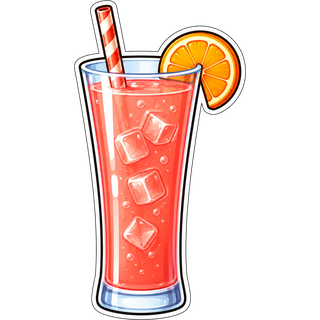
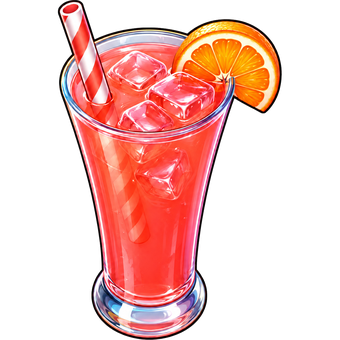
3D drink sprites: all 11 tiers re-rendered in elevated 3/4 volumetric style
Regenerated every drink as a glossy 3D object seen from the table camera's
angle, so they sit IN the scene with real depth instead of reading as flat
front-on cards. Billboard shear cut to a whisper (the sprites now carry
their own perspective), icon + iOS splash rebuilt from the 3D margarita.

diff --git a/src/render.js b/src/render.js
@@ -372,8 +372,9 @@ export class Renderer {
     const vis = 1.62 - 0.034 * (b.tier - 1);
     const wpx = b.r * 2 * p.s * vis * pop * (1 + bob);
     const hpx = view.project(b.x, b.y, b.z);
-    // billboard lean: drinks off-center shear subtly toward the camera axis
-    const shear = (this.view.cx - p.x) / this.view.w * 0.12;
+    // The 3D-rendered sprites already carry a fixed 3/4 perspective, so the old
+    // billboard shear would fight it — keep only a whisper of lean for life.
+    const shear = (this.view.cx - p.x) / this.view.w * 0.04;
 
     if (img) {
       const ih = wpx * (img.naturalHeight / img.naturalWidth);

diff --git a/sw.js b/sw.js
@@ -2,7 +2,7 @@
 // else (backdrops, sprites, audio) so the game is fully playable offline
 // after the first visit.
 
-const VERSION = 'flicktail-v4';
+const VERSION = 'flicktail-v5';
 const BACKDROPS = ['waikiki', 'miami', 'cancun', 'rio', 'nice', 'positano',
   'santorini', 'ibiza', 'dubai', 'phuket', 'bali', 'borabora'];
 const SHELL = [
